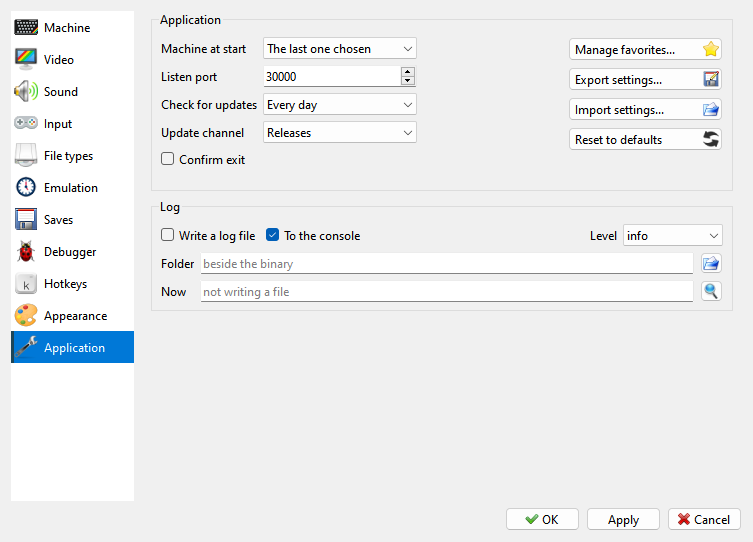
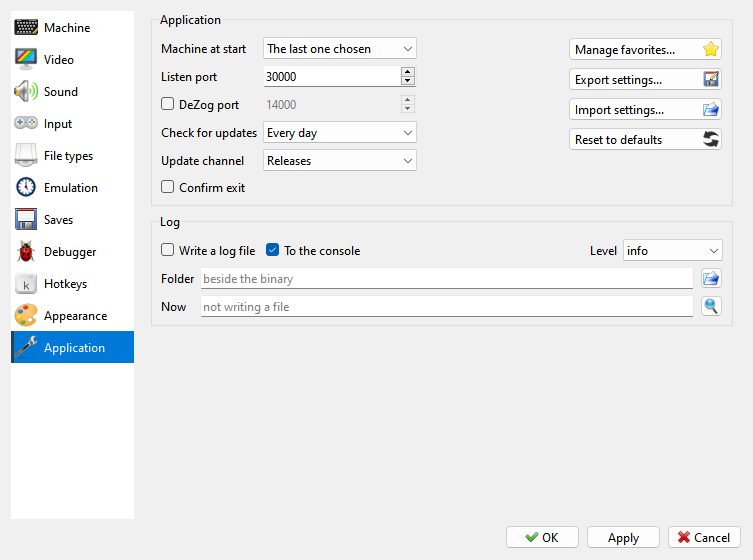
manual: DeZog in VS Code debugs the running machine - a page of its own (turning it on, launch.json for DeZog 3.8 and 3.7, what works, machines, the Debugger beside it), the DeZog port in Options > Application, --dezog and --dezog-port

diff --git a/docs/manual/debugger-dezog.md b/docs/manual/debugger-dezog.md
@@ -1,0 +1,130 @@
+# DeZog (VS Code)
+
+```{index} DeZog, VS Code, debugging; from VS Code, DZRP
+```
+
+[DeZog](https://github.com/maziac/DeZog) is a debugger for Z80 programs that runs in
+Visual Studio Code. With it you debug your program from its source: you set breakpoints
+on the lines of your assembler file, step through them, and see the registers, the memory
+and the call stack in VS Code, while the program runs in Xpeccy+.
+
+DeZog talks to Xpeccy+ over a network connection on this computer. Xpeccy+ speaks DeZog's
+own protocol (DZRP), so no plugin or bridge is needed.
+
+## Turning it on
+
+```{index} DeZog; port, --dezog, --dezog-port
+```
+
+- **Options > Application > DeZog port** - tick it and set the port, 14000 by default. The
+  setting stays.
+- `--dezog` on the command line - on for this run, on the port Options set.
+  `--dezog-port N` - on for this run, on port N. See [Command line](command-line.md#debugging).
+
+Xpeccy+ then waits for DeZog on that port. Only programs on this computer can connect, and
+only one at a time. While the option is off, nothing listens.
+
+## A session
+
+```{index} DeZog; launch.json, DeZog; session
+```
+
+1. Assemble your program with SjASMPlus and its `--sld` option, which writes the file
+   DeZog maps the addresses to your source lines with.
+2. Open the program in Xpeccy+: on the command line (`xpeccy-plus game.sna --dezog`), from
+   the menu, or by dropping it on the window. A tape or a disk works too.
+3. In VS Code, start debugging with a `launch.json` like the one below.
+
+DeZog connects, and the machine stops where it was. Press **Continue** in VS Code to run
+it. When DeZog closes the connection, its breakpoints go and the machine runs on.
+
+For DeZog 3.8 and later:
+
+```json
+{
+	"version": "0.2.0",
+	"configurations": [
+		{
+			"type": "dezog",
+			"request": "launch",
+			"name": "Xpeccy+",
+			"remoteType": "dzrp",
+			"dzrp": {"port": 14000},
+			"sjasmplus": [{"path": "main.sld"}],
+			"topOfStack": "stack_top",
+			"rootFolder": "${workspaceFolder}",
+			"startAutomatically": false
+		}
+	]
+}
+```
+
+DeZog 3.7 has no remote type of its own for an emulator yet; use the one it names `cspect`,
+with the same port:
+
+```json
+			"remoteType": "cspect",
+			"cspect": {"hostname": "localhost", "port": 14000},
+```
+
+DeZog can load the program itself, with `"load": "game.sna"` (a `.sna`, `.z80` or `.nex`
+file) or `"loadObjs"` (binary files at their addresses). Without them it debugs what the
+machine is running.
+
+## What works
+
+```{index} DeZog; breakpoints, DeZog; watchpoints, DeZog; banks
+```
+
+- Breakpoints on source lines, with conditions, hit counts, logpoints (`LOGPOINT`) and
+  assertions (`ASSERTION`). DeZog works the conditions out itself, each time the machine
+  stops at one.
+- **Step Over**, **Step Into**, **Step Out**, **Continue** and **Pause**.
+- Registers, memory, the call stack and the memory banks. A breakpoint on a line in a paged
+  bank stops only when that bank is paged in.
+- Watchpoints (`WPMEM` in the source), and saving and restoring the machine state
+  (`-state save` and `-state restore` in DeZog's debug console): DeZog 3.8 and later.
+- On the ZX Spectrum Next: the sprites, their patterns and palettes, and the Next registers.
+
+Not available: DeZog's code coverage, its count of T-states, and stepping back through
+everything the program did. DeZog asks those only of its own simulator and of ZEsarUX.
+Its **Step Back** goes back over the steps you took.
+
+## Machines
+
+```{index} DeZog; machines
+```
+
+DeZog knows the memory of the ZX Spectrum 48K, 128K and Next. Xpeccy+ shows the 48K (and
+ALF TV Game) as a 48K, the Next as a Next, and every other machine as a 128K. What a 128K
+does not have is shown by its own number, which DeZog marks as an unknown bank: RAM banks
+past 7 (Pentagon 1024, Scorpion, ZX Evolution), the +2A/+3's all-RAM paging, and a ROM
+other than the two of the 128K (TR-DOS). Breakpoints on an address and stepping work on
+every machine.
+
+After switching to another machine, start the debug session again.
+
+## DeZog and the Debugger
+
+```{index} DeZog; Debugger window
+```
+
+While DeZog is connected, the machine's stops are DeZog's: a breakpoint stops the
+machine and VS Code shows where, and the [Debugger](debugger.md) window does not open by
+itself. Your own breakpoints from the [Breakpoints panel](debugger-breakpoints.md) still
+stop the machine; DeZog shows them as *Xpeccy+ breakpoint* with what they caught. DeZog's
+breakpoints are not in that panel.
+
+While the machine is stopped you can open the Debugger to look at it. While the Debugger
+is open, **Continue** and the steps in VS Code stop at once with a note; close the Debugger
+first.
+
+## Without a window
+
+```{index} DeZog; --bench
+```
+
+With `--bench` (see [Command line](command-line.md#running-with-no-window)) and
+`--dezog-port`, Xpeccy+ runs with no window and DeZog, or a test of your own that speaks
+DZRP, drives it. While DeZog holds the machine stopped, the frames of `--bench` do not
+count.

diff --git a/docs/manual/options-application.md b/docs/manual/options-application.md
@@ -1,12 +1,14 @@
 # Application page
 
-```{index} Application page, Listen port, Check for updates, Update channel, Confirm exit, Export settings, Import settings, Reset to defaults, log, log file
+```{index} Application page, Listen port, DeZog port, Check for updates, Update channel, Confirm exit, Export settings, Import settings, Reset to defaults, log, log file
 ```
 
 ![The Application page](images/options-application.png)
 
 - **Machine at start** - see [Machine at start](#machine-at-start).
 - **Listen port** - the network port the program listens on, for tools that control it.
+- **DeZog port** - let [DeZog](debugger-dezog.md) debug the machine from VS Code, on this
+  port. Only programs on this computer can connect.
 - **Check for updates**, **Update channel** - how often to look for a newer version, and
   whether development builds count; see [Updates](getting-started.md#updates).
 - **Confirm exit** - ask before closing. **Pause when inactive** is on the

diff --git a/docs/manual/command-line.md b/docs/manual/command-line.md
@@ -145,7 +145,7 @@ These are for this run only:
 
 ## Debugging
 
-```{index} command line; debugging, -d, --debug, -l, --labels, -a, --adr, -f, --file, -b, --bank, --pc, --sp, --bp, --brk, --brk-log, --xmap
+```{index} command line; debugging, -d, --debug, -l, --labels, -a, --adr, -f, --file, -b, --bank, --pc, --sp, --bp, --brk, --brk-log, --xmap, --dezog, --dezog-port
 ```
 
 - `-d`, `--debug` - open the Debugger at once.
@@ -166,6 +166,9 @@ These are for this run only:
 - `--brk-log FILE` - where the [breakpoint log](debugger-breakpoints.md#the-breakpoint-log)
   goes; `-` writes it to the standard output.
 - `--xmap FILE` - load a memory map saved by the Debugger (`.xmap`).
+- `--dezog` - let [DeZog](debugger-dezog.md) debug the machine from VS Code, on the port
+  **Options > Application > DeZog port** sets; for this run.
+- `--dezog-port N` - the same, on port N.
 
 ```{index} command line; numbers
 ```

diff --git a/docs/manual/debugger.md b/docs/manual/debugger.md
@@ -48,7 +48,8 @@ Open the Debugger in any of these ways:
 - `-d` on the command line opens it as soon as the program starts (see
   [Command line](command-line.md#debugging));
 - a breakpoint opens it by itself when the machine reaches it (see
-  [Breakpoints panel](debugger-breakpoints.md)).
+  [Breakpoints panel](debugger-breakpoints.md)), unless [DeZog](debugger-dezog.md) is
+  connected.
 
 While the Debugger is open, the machine stands still. There is no sound, fast mode is
 switched off, and keys pressed in the main window do not reach the machine. The picture in
@@ -175,6 +176,7 @@ debugger-cmos
 debugger-palette
 debugger-zx-evo
 debugger-zx-next
+debugger-dezog
 ```
 
 ## The buttons over the listing
